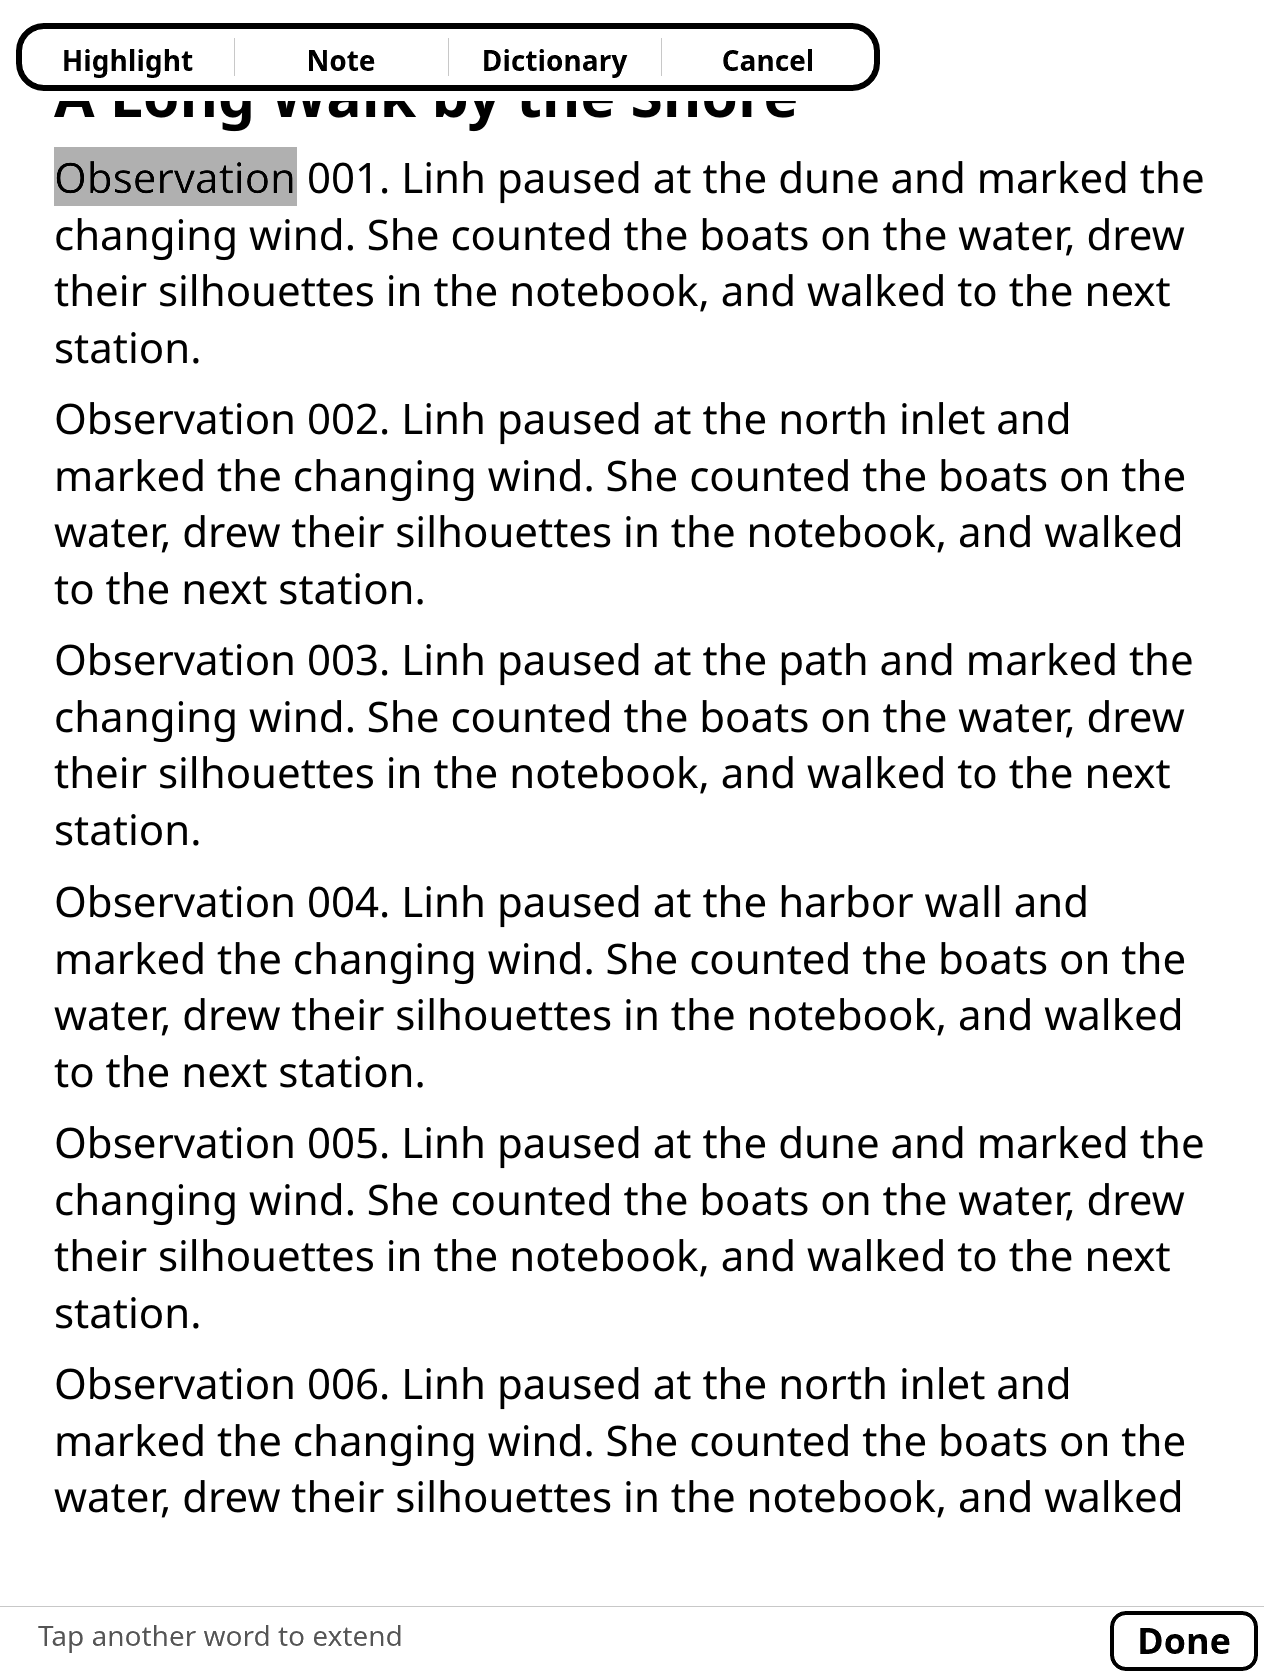
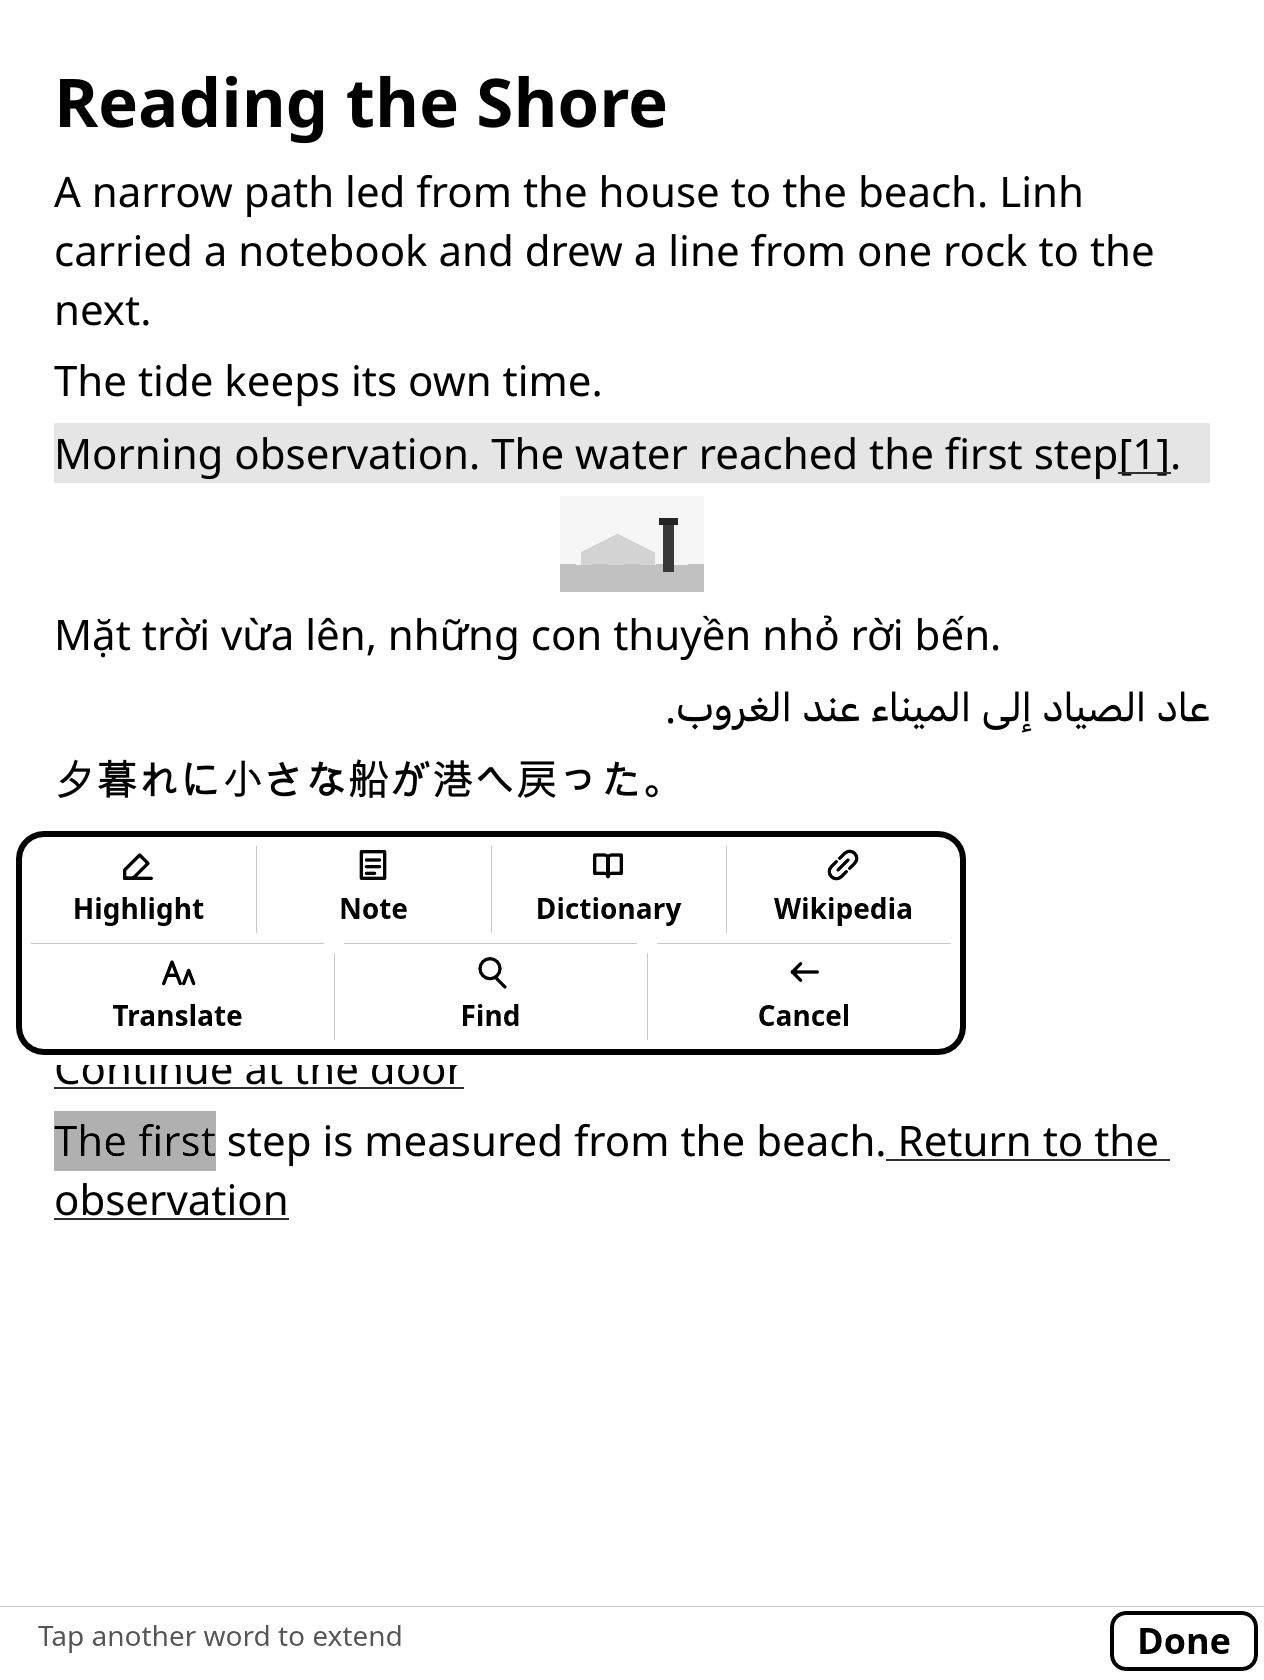
Search a book from a selected passage

Changed region(s): [[0.0, 0.0, 0.9565, 0.8976]]

diff --git a/src/app.rs b/src/app.rs
@@ -4327,9 +4327,8 @@ impl Reader {
         Ok(())
     }
 
-    fn look_up_selection(&mut self) -> Result<()> {
-        let word = self
-            .pdf_selection
+    fn selected_passage(&self) -> Result<&str> {
+        self.pdf_selection
             .as_ref()
             .map(PdfSelection::text)
             .or_else(|| {
@@ -4337,9 +4336,44 @@ impl Reader {
                     .as_ref()
                     .map(|selection| selection.text.as_str())
             })
-            .ok_or("Select a word first")?
-            .to_owned();
+            .ok_or_else(|| "Select a word first".into())
+    }
+
+    fn look_up_selection(&mut self) -> Result<()> {
+        let word = self.selected_passage()?.to_owned();
         self.look_up(&word)
+    }
+
+    fn find_selection(&mut self) -> Result<()> {
+        let query = self
+            .selected_passage()?
+            .split_whitespace()
+            .collect::<Vec<_>>()
+            .join(" ");
+        if query.is_empty() {
+            return Err("The selection has no searchable text".into());
+        }
+        let excerpt: Vec<char> = query
+            .char_indices()
+            .take(128)
+            .take_while(|(offset, ch)| offset + ch.len_utf8() <= crate::search::MAX_QUERY_BYTES)
+            .map(|(_, ch)| ch)
+            .collect();
+        let shortened = query.len() > crate::search::MAX_QUERY_BYTES || query.chars().count() > excerpt.len();
+        if shortened {
+            self.show(Screen::Find);
+        } else {
+            self.start_document_search(&query)?;
+        }
+        self.editor = Editor::new(128);
+        self.editor.caret = excerpt.len();
+        self.editor.text = excerpt;
+        if shortened {
+            self.notice = Some("Edit this excerpt to search a shorter passage".into());
+        }
+        self.selection = None;
+        self.pdf_selection = None;
+        Ok(())
     }
 
     fn look_up(&mut self, word: &str) -> Result<()> {
@@ -8427,6 +8461,51 @@ mod tests {
         let mut reopened = fixture.app();
         reopened.activate(Action::Continue).unwrap();
         assert_eq!(position(&reopened.active.as_ref().unwrap().reading), saved);
+    }
+
+    #[test]
+    fn searches_from_a_selection_on_reflow_and_rotated_pdf_pages() {
+        let fixture = Fixture::new();
+        let fonts = simulation_fonts();
+        let mut app = Reader::open(&fixture.root, &fixture.state, fonts.clone()).unwrap();
+        app.open_path(&fixture.book).unwrap();
+        let reading = &app.active.as_ref().unwrap().reading;
+        let target = Book::resolve_link(&reading.probe.chapter, "#tide-note").unwrap();
+        app.follow(target).unwrap();
+        let reading = &app.active.as_ref().unwrap().reading;
+        let start = reading.probe.fragment("tide-note").unwrap();
+        let mut end = start.clone();
+        end.offset += "The first".len();
+        app.selection = reading.probe.select_range(&start, &end);
+        let original = position(reading);
+        capture_test_screen(&app, &fonts, "READER_SELECTION_FIND_SCREENSHOT", false);
+        assert_eq!(tap_selection_action(&mut app, selection_popup::SelectionAction::Find), Change::Partial);
+        assert_eq!(app.screen, Screen::Matches);
+        assert_eq!(app.editor.string(), "The first");
+        assert!(app.selection.is_none());
+        app.step_search(Instant::now()).unwrap();
+        assert!(app.hits.iter().any(|hit| hit.anchor == start && hit.end == end));
+        app.activate(Action::SearchHit(0)).unwrap();
+        app.activate(Action::ReturnToLocation).unwrap();
+        assert_eq!(position(&app.active.as_ref().unwrap().reading), original);
+
+        let pdf = fixture.root.join("Search selection.pdf");
+        fs::write(&pdf, crate::fixed::tests::document()).unwrap();
+        app.open_path(&pdf).unwrap();
+        app.activate(Action::RotatePage).unwrap();
+        let reading = &app.fixed.as_ref().unwrap().reading;
+        let text = reading.page_text(0).unwrap();
+        let (size, viewport) = reading.page_viewport().unwrap();
+        let word = &text.words[0];
+        let expected = text.text[word.bytes.clone()].to_owned();
+        let point = word.bounds.in_viewport(size, viewport).unwrap().center();
+        app.input(Input::LongTap(point.x as f32, point.y as f32));
+        assert_eq!(tap_selection_action(&mut app, selection_popup::SelectionAction::Find), Change::Partial);
+        assert_eq!(app.screen, Screen::Matches);
+        app.step_search(Instant::now()).unwrap();
+        assert!(app.pdf_hits.iter().any(|hit| hit.page == 0 && hit.region.is_some()));
+        assert_eq!(app.lookup_history.searches[0].text, expected);
+        assert!(app.pdf_selection.is_none());
     }
 
     #[test]

diff --git a/src/app/selection_popup.rs b/src/app/selection_popup.rs
@@ -13,17 +13,19 @@ pub(super) enum SelectionAction {
     Dictionary,
     Wikipedia,
     Translate,
+    Find,
     Chapter,
     Cancel,
 }
 
 impl SelectionAction {
-    const ALL: [Self; 7] = [
+    const ALL: [Self; 8] = [
         Self::Highlight,
         Self::Note,
         Self::Dictionary,
         Self::Wikipedia,
         Self::Translate,
+        Self::Find,
         Self::Chapter,
         Self::Cancel,
     ];
@@ -35,6 +37,7 @@ impl SelectionAction {
             Self::Dictionary => "Dictionary",
             Self::Wikipedia => "Wikipedia",
             Self::Translate => "Translate",
+            Self::Find => "Find",
             Self::Chapter => "Chapter",
             Self::Cancel => "Cancel",
         }
@@ -89,7 +92,7 @@ impl SelectionPopup {
     fn buttons(&self) -> impl Iterator<Item = (SelectionAction, Rect)> + '_ {
         let inner = self.rect.inset(5);
         let floating = self.rect.y < PAGE_HEIGHT as i32;
-        let count = if self.custom_chapters { 7 } else { 6 };
+        let count = SelectionAction::ALL.len() as i32 - i32::from(!self.custom_chapters);
         let columns = if floating { (count + 1) / 2 } else { count };
         let cell_h = if floating { inner.h / 2 } else { inner.h };
         SelectionAction::ALL
@@ -152,6 +155,7 @@ impl SelectionPopup {
                     SelectionAction::Dictionary | SelectionAction::Chapter => bar_icons::BOOK,
                     SelectionAction::Wikipedia => bar_icons::LINK,
                     SelectionAction::Translate => bar_icons::TEXT,
+                    SelectionAction::Find => bar_icons::SEARCH,
                     SelectionAction::Cancel => bar_icons::BACK,
                 };
                 canvas.icon(
@@ -229,6 +233,7 @@ impl Reader {
             Some(SelectionAction::Dictionary) => self.look_up_selection(),
             Some(SelectionAction::Wikipedia) => self.prepare_online(true, false),
             Some(SelectionAction::Translate) => self.prepare_online(false, false),
+            Some(SelectionAction::Find) => self.find_selection(),
             Some(SelectionAction::Chapter) => self.edit_selected_contents_chapter(),
             Some(SelectionAction::Cancel) => {
                 self.selection = None;

diff --git a/src/app/bar_icons.rs b/src/app/bar_icons.rs
@@ -21,7 +21,7 @@ const GRID: Icon = line(&[
     "M4 4 H10 V10 H4 Z M14 4 H20 V10 H14 Z",
     "M4 14 H10 V20 H4 Z M14 14 H20 V20 H14 Z",
 ]);
-const SEARCH: Icon = line(&["M12 4 A6 6 0 1 0 12 16 A6 6 0 1 0 12 4 Z M16 16 L21 21"]);
+pub(super) const SEARCH: Icon = line(&["M12 4 A6 6 0 1 0 12 16 A6 6 0 1 0 12 4 Z M16 16 L21 21"]);
 const FOLDER: Icon = line(&["M3 6 H10 L12 8 H21 V19 H3 Z"]);
 pub(super) const HIGHLIGHT: Icon = line(&["M4 15 L13 6 L18 11 L9 20 H4 Z M4 20 H20"]);
 const CLOCK: Icon = line(&["M12 3 A9 9 0 1 0 12 21 A9 9 0 1 0 12 3 Z M12 7 V12 L16 15"]);

diff --git a/src/search.rs b/src/search.rs
@@ -15,7 +15,7 @@ use crate::{Anchor, Result};
 use crate::fixed_text::{PdfPageText, PdfTextRect};
 
 pub const MAX_SEARCH_HITS: usize = 100;
-const MAX_QUERY_BYTES: usize = 256;
+pub(crate) const MAX_QUERY_BYTES: usize = 256;
 const CONTEXT_CHARACTERS: usize = 28;
 const CASE_MAPPER: CaseMapperBorrowed<'static> = CaseMapper::new();
 const SOFT_HYPHEN: char = '\u{ad}';

diff --git a/docs/reading-control-evidence.md b/docs/reading-control-evidence.md
@@ -26,7 +26,7 @@ The retained screenshots contain personal reading material. The public [Reader c
 | **Lower typography and defaults** | Reader applies type size, margins, line/word/letter spacing, justification, weight, contrast, publisher styles, kerning, image scaling and night-image mode. Profiles group settings. EPUB hyphenation honors publisher discretionary points. [Configuration rows](../src/app/bottom_config.rs) · [Native layout](../src/parley_layout.rs) | Implement maximum justified-word expansion separately from normal word spacing, then CJK width scaling and language-aware automatic hyphenation. Add precise values and a persistent default per control where appropriate. Compare line breaks and rendered values under identical widths, font and language. Reopen and verify both font-independent anchors and applied defaults. [KOReader word spacing and expansion](https://github.com/koreader/koreader/blob/v2026.07.1/frontend/ui/data/creoptions.lua#L457) · [Hold-to-configure behavior](https://github.com/koreader/koreader/blob/v2026.07.1/frontend/ui/widget/configdialog.lua#L104) |
 | **Fixed-page and scan controls** | PDF and DjVu expose fit, crop, rotation, contrast and available scan tools. Reader offers bounded deskew and scanned-text reflow and distinguishes forced OCR from the embedded layer. [Provider-specific controls](../src/app/bottom_config.rs) · [Scan verification](scan-controls.md) | Compare manual crop and reading order on a two-column scan, a landscape PDF and a mixed image/text page. Test the destination and selection rectangle after fit changes, deskew, crop, restore, and forced OCR. Remaining separate controls include defect-size processing and broader segmentation. [KOReader fixed-page options](https://github.com/koreader/koreader/blob/v2026.07.1/frontend/ui/data/koptoptions.lua#L620) |
 | **Quick gestures, display and footer** | The gesture editor offers corner taps/holds and directional edge swipes. It supports a fixed action list and per-binding reset. Default side swipes can adjust available frontlight or warmth. The footer cycles metrics and exposes a progress track. [Gesture dispatch](../src/app/gestures.rs) · [Display controls](../src/app/quick_display.rs) · [Footer](../src/app/reading_footer.rs) | Compare short and long drags at mapped boundaries, unavailable hardware, direction reversal and locked input. Verify that movement within the document remains scrolling or panning. Check footer progress, history and ETA against an EPUB anchor and a numbered PDF page. Additional configurable gesture families, actions and footer composition require separate coverage. [KOReader touch regions](https://github.com/koreader/koreader/blob/v2026.07.1/defaults.lua#L54) · [Footer event priority](https://github.com/koreader/koreader/blob/v2026.07.1/frontend/apps/reader/modules/readerfooter.lua#L918) |
-| **Word and passage selection** | Holding a word opens icon-and-label actions for Highlight, Note, Dictionary, Wikipedia, Translate and Cancel. Chapter is conditional on custom contents. A tap can extend the active range. PDF/OCR and reflow store different location types. [Selection actions](../src/app/selection_popup.rs) · [Word and range geometry](../src/selection.rs) | Add Find in book from the selection and a configurable default long-press action. Implement controlled advancement and retraction of either selection boundary, including crossing a page. Test cancellation, both directions, RTL, a fixed-page selection and OCR coordinates. Verify saved text and endpoints after reopen. [KOReader long-press actions](https://github.com/koreader/koreader/blob/v2026.07.1/frontend/apps/reader/modules/readerhighlight.lua#L364) · [Release dispatch](https://github.com/koreader/koreader/blob/v2026.07.1/frontend/apps/reader/modules/readerhighlight.lua#L2037) |
+| **Word and passage selection** | Holding a word opens icon-and-label actions for Highlight, Note, Dictionary, Wikipedia, Translate, Find and Cancel. Find searches the selected words in the current book and retains the query in Recent searches. Long selections open an editable excerpt. Chapter is conditional on custom contents. A tap can extend the active range. PDF/OCR and reflow store different location types. [Selection actions](../src/app/selection_popup.rs) · [Word and range geometry](../src/selection.rs) | Add a configurable default long-press action. Implement controlled advancement and retraction of either selection boundary, including crossing a page. Test cancellation, both directions, RTL, a fixed-page selection and OCR coordinates. Verify saved text and endpoints after reopen. [KOReader long-press actions](https://github.com/koreader/koreader/blob/v2026.07.1/frontend/apps/reader/modules/readerhighlight.lua#L364) · [Release dispatch](https://github.com/koreader/koreader/blob/v2026.07.1/frontend/apps/reader/modules/readerhighlight.lua#L2037) |
 | **Dictionary result overlay** | Local StarDict lookup applies a preferred source, supports synonym indices, paginates results and offers an expanded view. The overlay moves around the selection and can save a vocabulary word. Wikipedia and translation are available from the selection sheet. [Dictionary lookup](../src/dictionary.rs) · [Definition overlay and tests](../src/app.rs) | Add find-within-definition, nested lookup of a word in a definition, and direct Wikipedia lookup from the current result. A nested close must return to the exact dictionary, result index and scroll position, then to the selected passage. Add opt-in fuzzy lookup with exact and synonym results first. Test a missing term, several sources and network cancellation. [KOReader definition search](https://github.com/koreader/koreader/blob/v2026.07.1/frontend/ui/widget/dictquicklookup.lua#L1760) · [Fuzzy lookup setting](https://github.com/koreader/koreader/blob/v2026.07.1/frontend/apps/reader/modules/readerdictionary.lua#L329) |
 
 ## Implementation order

diff --git a/README.md b/README.md
@@ -72,7 +72,7 @@ Install Reader from PrimitiveOS Store or follow the manual install guide.
   larger size. Done returns to the same page and zoom.
 - At the end of a comic, Next comic opens the following archive in the same
   folder in natural filename order.
-- Hold a word to select it, then tap another word to extend the selection.
+- Hold a word to select it, then tap another word to extend the selection. Tap **Find** to search for the selected words throughout the book. A long selection opens an editable search excerpt.
   Use the selection popup to add a highlight or note, or look up a word in an
   installed offline dictionary.
   Definitions open over the current page, away from the selected words when
